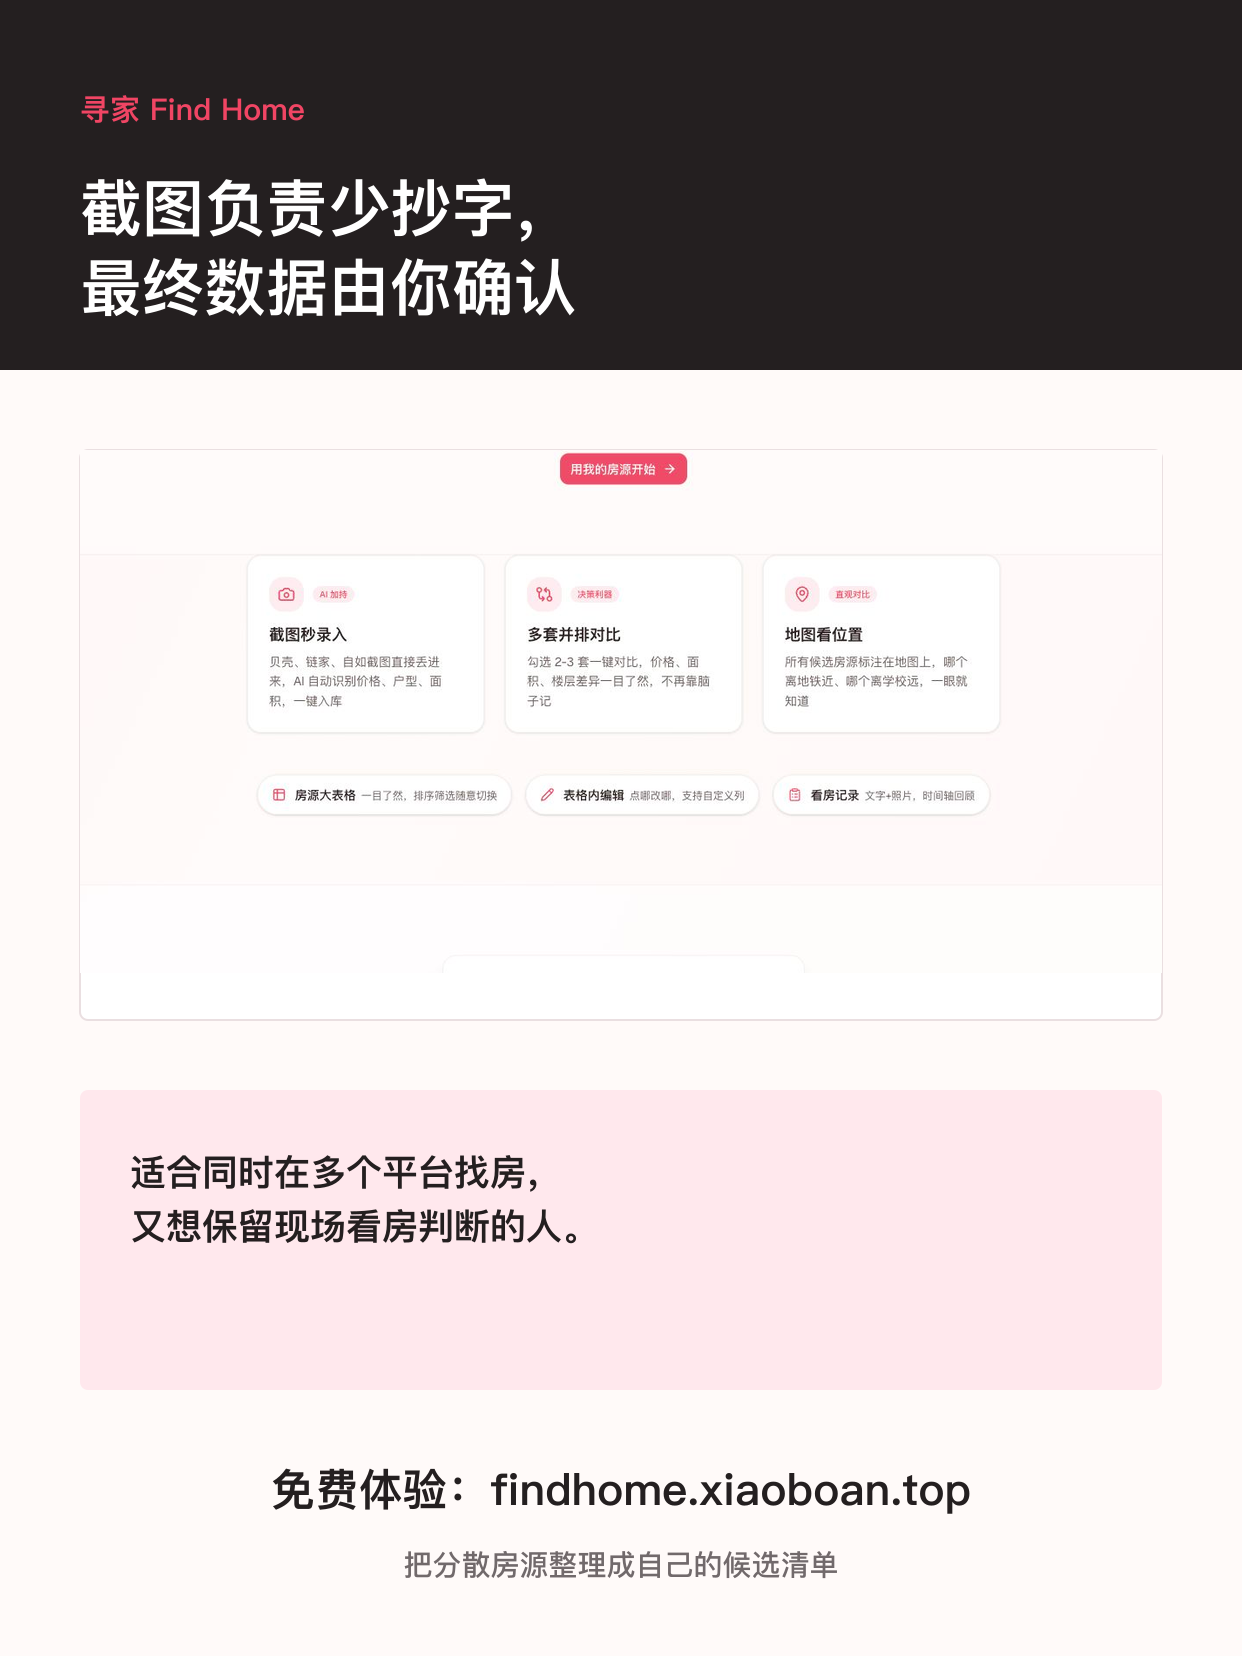
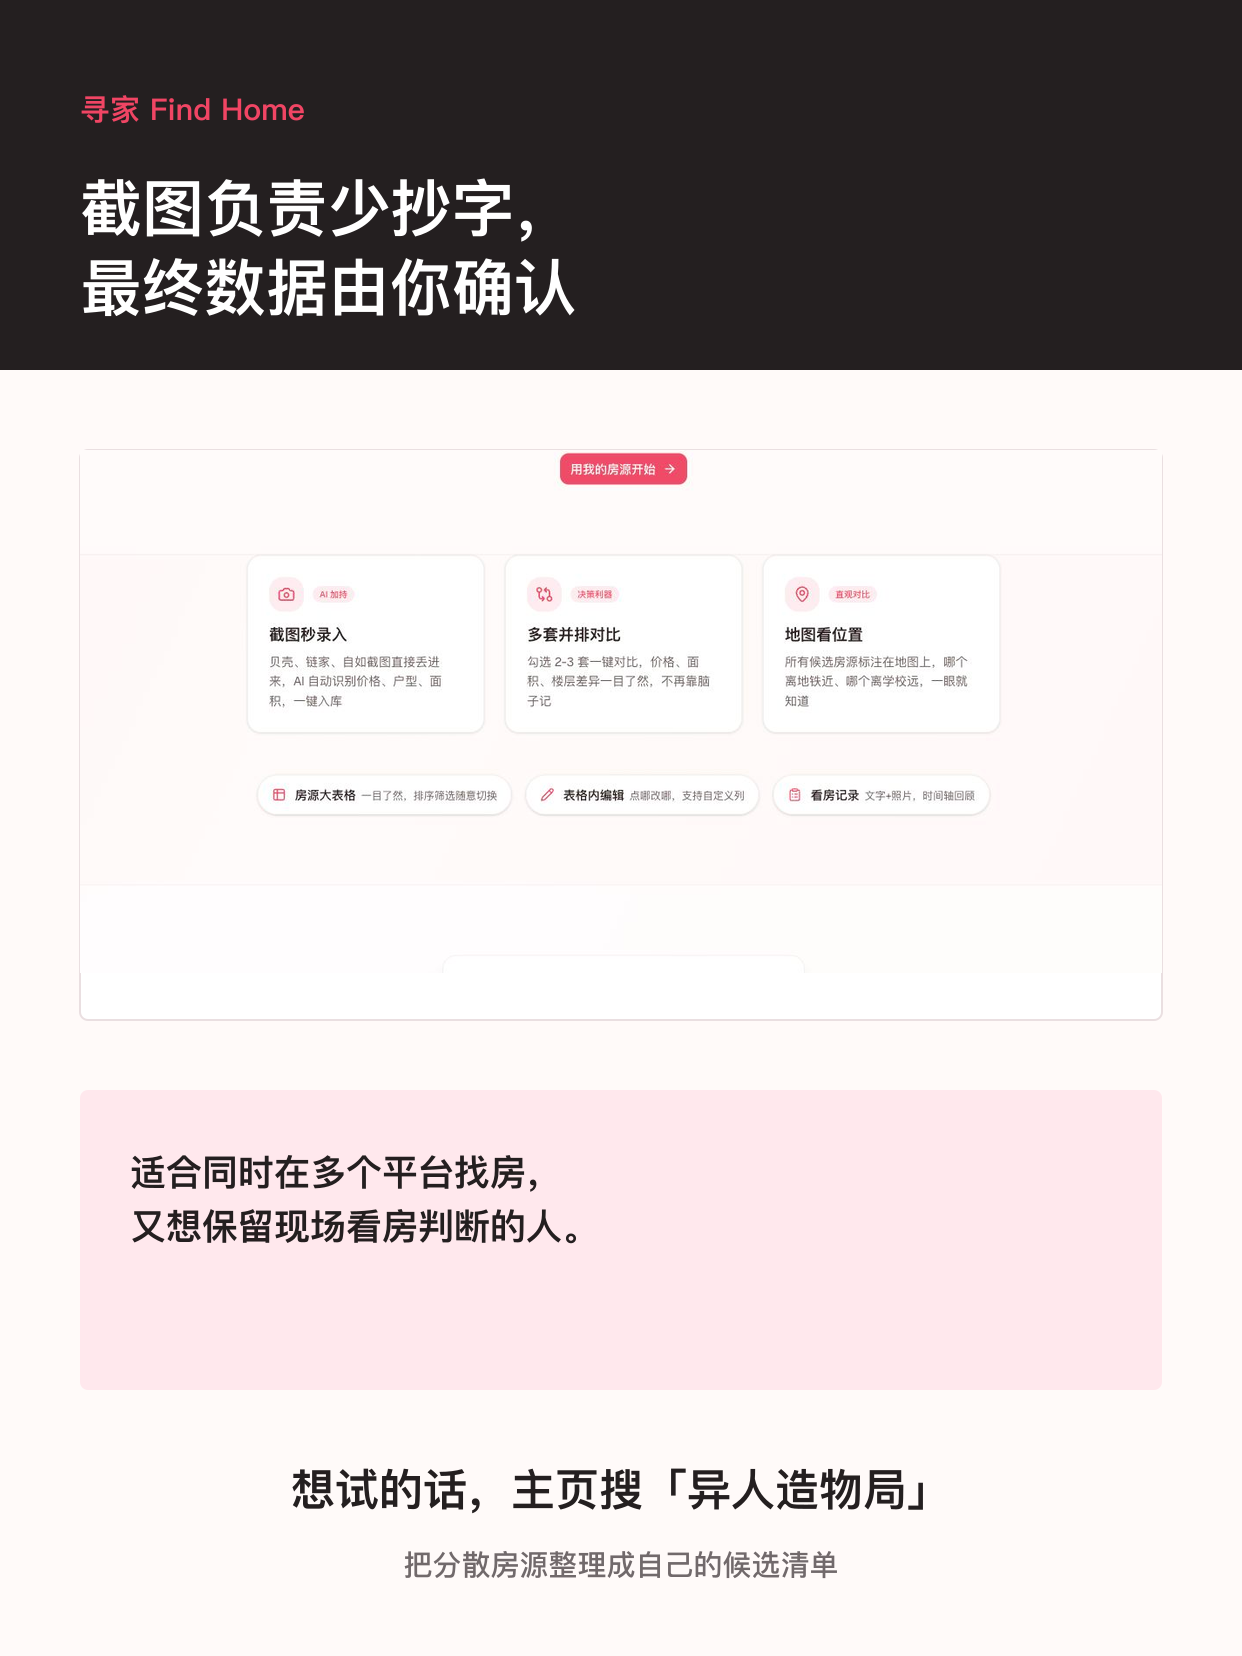
fix: remove external link from xiaohongshu campaign

Changed region(s): [[0.2142, 0.8623, 0.7955, 0.9239]]

diff --git a/运营/首批小红书内容.md b/运营/首批小红书内容.md
@@ -52,6 +52,7 @@
 - 零时点基线：后台展示的 5 项互动指标均为 `0`
 - 公开笔记：`https://www.xiaohongshu.com/user/profile/637657c9000000001f01a4b0/6a818748000000002202f3a6`
 - 公开主页复核：关注 `0`、粉丝 `0`、获赞与收藏 `0`，首篇笔记互动均为 `0`
+- 2026-08-16 17:58 平台处置：限制推荐和搜索展示；原因是正文和图片含站外引流信息（网址、引导前往其他平台）。暂不删除或申诉，后续公开内容不再出现网址、二维码或类似引流表述。
 - 下次复盘：发布 24 小时后，同时查看小红书曝光、主页访问与站内漏斗
 
 **话题建议**
@@ -86,11 +87,11 @@
 - 图片顺序：`01-cover.png` 至 `05-cta.png`
 - 拼图预览：`preview.png`
 
-**本轮投放链接**
+**内部归因入口（不放入小红书正文或图片）**
 
 `https://findhome.xiaoboan.top/?utm_source=xiaohongshu&utm_medium=organic&utm_campaign=day3_cross_platform&utm_content=post2`
 
-发布后与第一篇比较 `landing_viewed → signup_succeeded → activation_completed` 的转化率。
+发布后用站内归因数据比较 `landing_viewed → signup_succeeded → activation_completed`；公开内容只写“主页搜「异人造物局」”，不再出现网址、二维码或其他站外引流信息。
 
 **话题建议**
 
